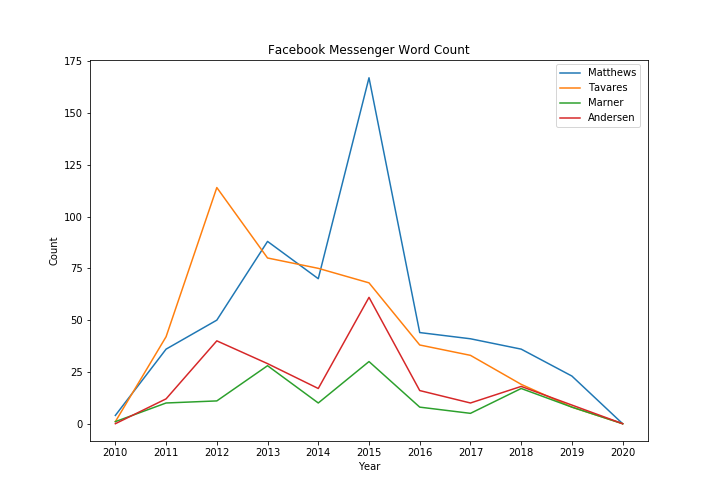
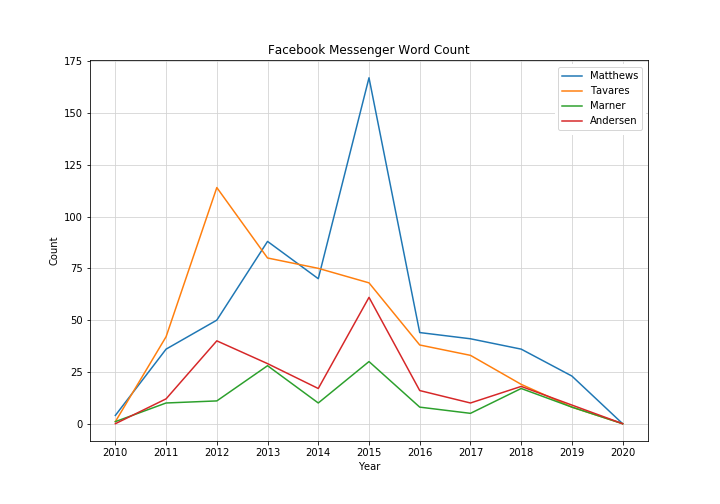
updated example img and readme

diff --git a/README.md b/README.md
@@ -144,6 +144,8 @@ Now that we have the data collected and organized we are ready to plot:
 
 ```
 import matplotlib.pyplot as plt
+%matplotlib inline
+%config InlineBackend.figure_format='retina'
 
 # get inner keys
 inner_keys = list(example.values())[0].keys()
@@ -154,7 +156,8 @@ x_axis_values = list(example.keys())
 # loop through inner_keys
 plt.title("Facebook Messenger Word Count")
 plt.xlabel("Year")
-plt.ylabel("Count");
+plt.ylabel("Count")
+plt.grid(color='lightgray', which='major');
 for x in inner_keys:
 
     # create a list of values for inner key
